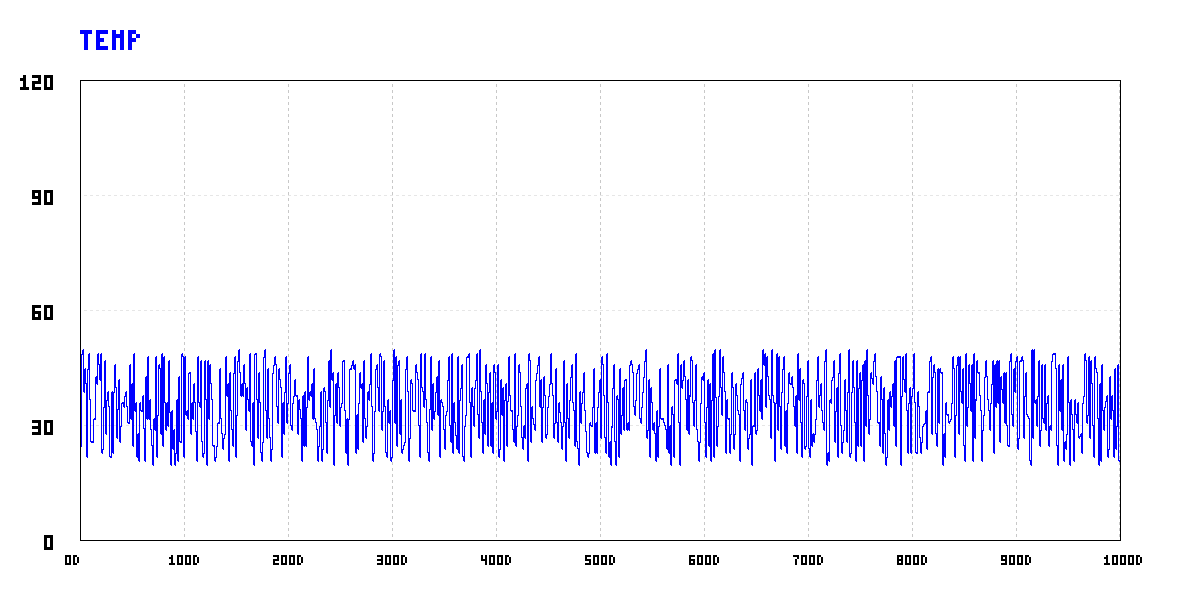
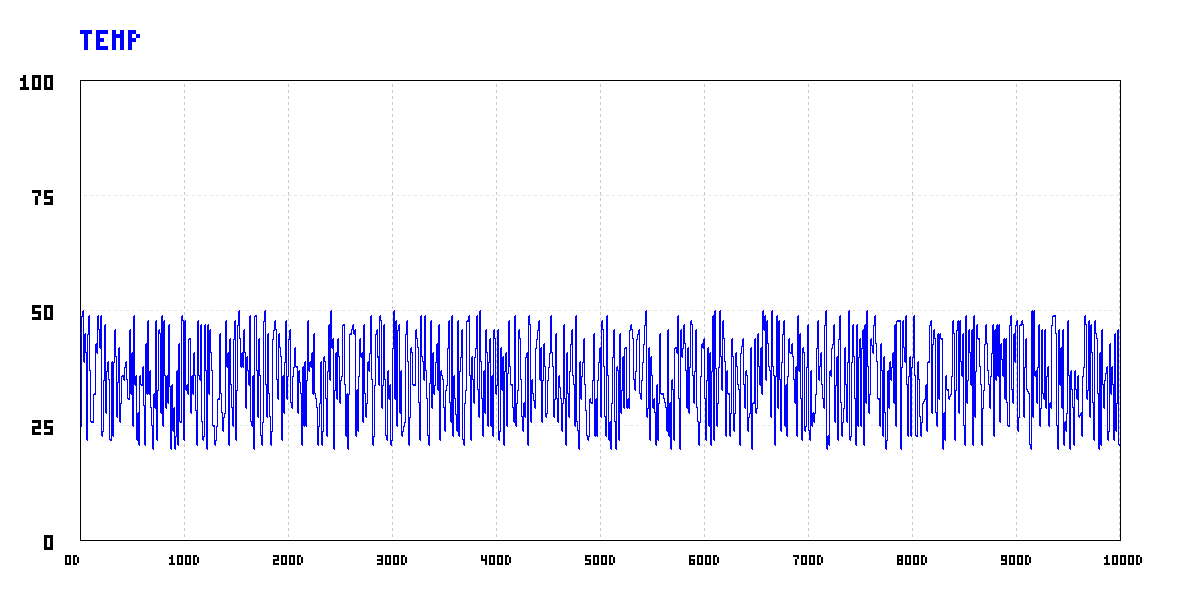
오타 수정

Changed region(s): [[0.0617, 0.51, 0.9558, 0.78]]

diff --git a/step12/mars_weather_summary.py b/step12/mars_weather_summary.py
@@ -356,7 +356,7 @@ class WeatherVisualizer:
         compressed = [(record[1], record[2]) for record in rows]
 
         # 동적 스케일링을 위한 데이터 최대값 도출 (상단 보기 편하도록 20 마진 추가)
-        max_temp_val = max(100, max(data[0] for data in compressed)) + 20
+        max_temp_val = max(100, max(data[0] for data in compressed))
         max_storm_val = max(100, max(data[1] for data in compressed)) + 20
 
         # 2. 픽셀 데이터 초기화 (흰색 배경)
